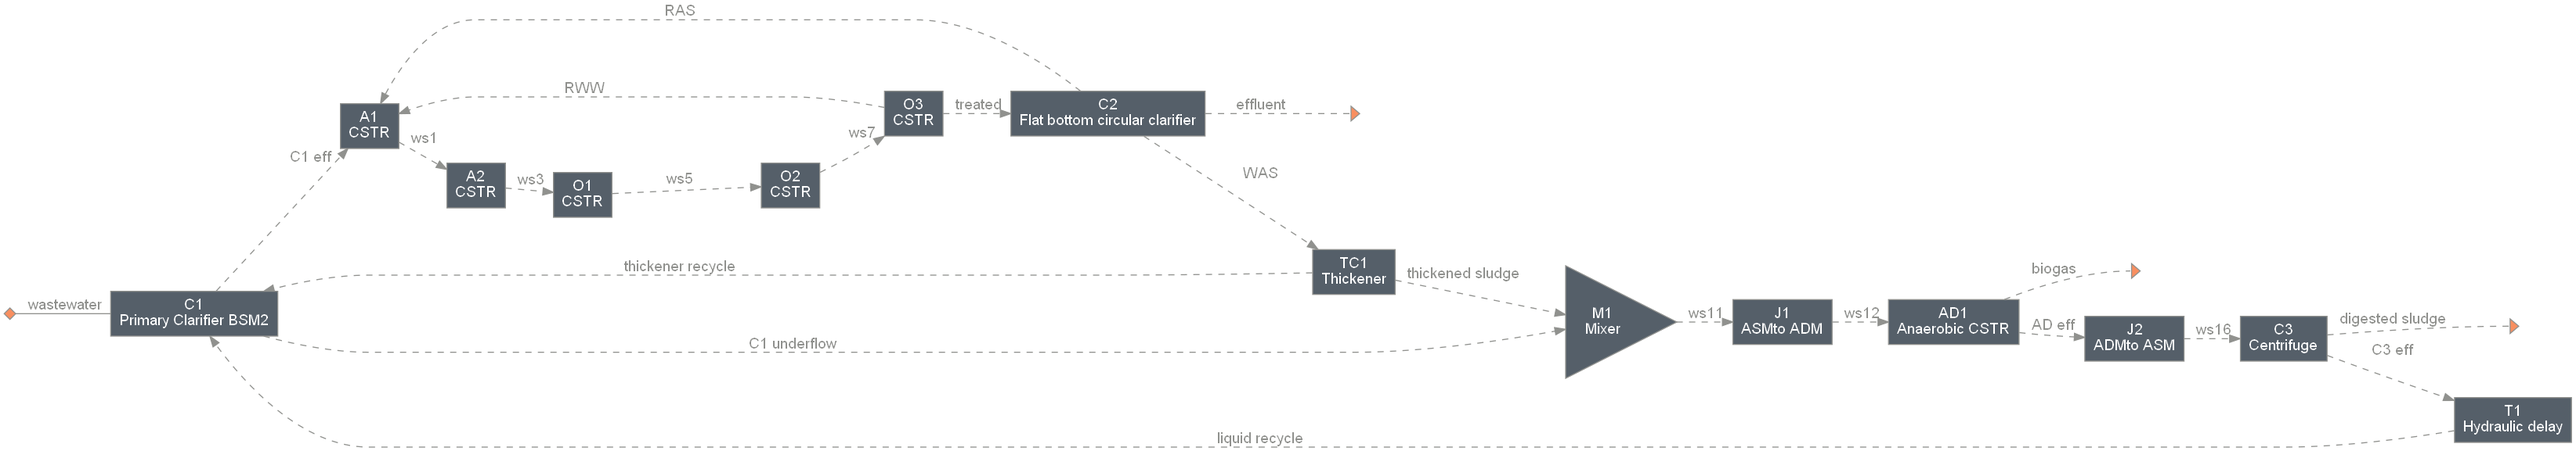
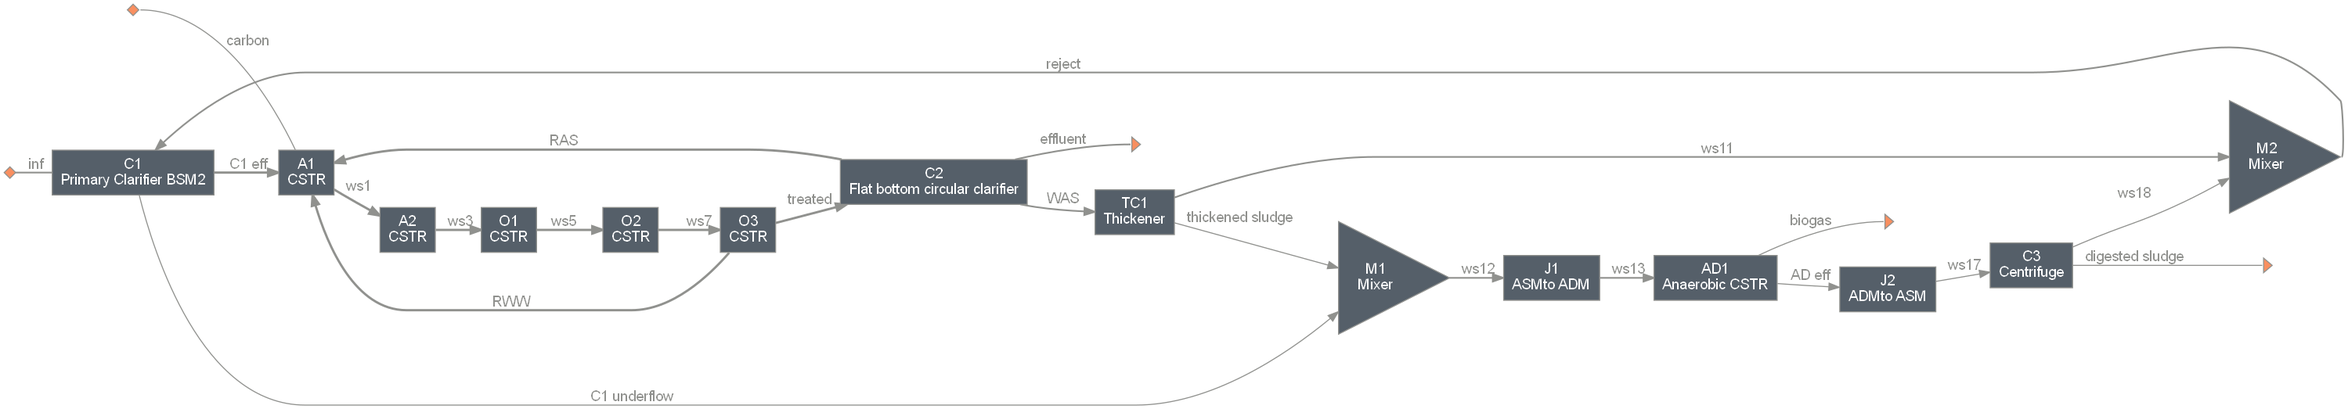
clean up bsm2 system

diff --git a/exposan/bsm2/system.py b/exposan/bsm2/system.py
@@ -69,8 +69,6 @@ def create_system(flowsheet=None, default_init_conds=True):
                    path=os.path.join(bsm1_path, '_asm1.tsv'))
     thermo_asm1 = qs.get_thermo()
     DO_ID = 'S_O'
-    #!!! Not sure where KLa are from
-    # the BSM STR Table 3.1 suggests kLa=120 for tanks 3&4, kLa=60 for tank 5
     aer1 = aer2 = pc.DiffusedAeration('aer1', DO_ID, KLa=120, DOsat=SOSAT1, V=V_ae)
     aer3 = pc.DiffusedAeration('aer3', DO_ID, KLa=60, DOsat=SOSAT1, V=V_ae)
     
@@ -83,9 +81,7 @@ def create_system(flowsheet=None, default_init_conds=True):
     # Primary clarifier using the Otterpohl-Freund model
     # Where are other parameters used?
     C1 = su.PrimaryClarifierBSM2(
-        'C1',
-        # ins=(inf, 'thickener_recycle', 'reject_water'),
-        ins=(inf, 'reject'),
+        'C1', ins=(inf, 'reject'),
         outs=('C1_eff', 'C1_underflow'),
         isdynamic=True, 
         volume=900,
@@ -95,7 +91,6 @@ def create_system(flowsheet=None, default_init_conds=True):
 
     # Unit operations in BSM1
     A1 = su.CSTR('A1', ins=[C1-0, 'RWW', 'RAS', carb], V_max=V_an,
-    # A1 = su.CSTR('A1', ins=[C1-0, 'RWW', 'RAS'], V_max=V_an,
                  aeration=None, suspended_growth_model=asm1)
     
     A2 = su.CSTR('A2', A1-0, V_max=V_an,
@@ -123,7 +118,6 @@ def create_system(flowsheet=None, default_init_conds=True):
         rh=5.76e-4, rp=2.86e-3, fns=2.28e-3,
         )
     
-    # TC1 = su.Thickener('TC1', C2-2, outs=['thickened_sludge', 1-C1],
     TC1 = su.Thickener('TC1', C2-2, outs=['thickened_sludge', ''],
                        thickening_perc=7, TSS_removal_perc=98)
     M1 = su.Mixer('M1', ins=(C1-1, TC1-0))
@@ -141,13 +135,13 @@ def create_system(flowsheet=None, default_init_conds=True):
     # J1.ins[0].pH = 7.2631
     AD1 = su.AnaerobicCSTR('AD1', ins=J1.outs[0], outs=('biogas', 'AD_eff'), isdynamic=True,
                            V_liq=3400, V_gas=300, T=T_ad, model=adm1,)
+    # AD1.algebraic_h2=False
     # Switch back to ASM1 components
     J2 = su.ADMtoASM('J2', upstream=AD1-1, thermo=thermo_asm1, isdynamic=True, adm1_model=adm1)
     J2.bio_to_xs = 0.79
     qs.set_thermo(thermo_asm1)
     
     # Dewatering
-    # C3 = su.Centrifuge(ID='C3', ins=J2-0, outs=['digested_sludge', 2-C1],
     C3 = su.Centrifuge(ID='C3', ins=J2-0, outs=['digested_sludge', ''],
                        thickening_perc=28, TSS_removal_perc=96.29)
 
@@ -166,11 +160,8 @@ def create_system(flowsheet=None, default_init_conds=True):
         AD1.set_init_conc(**adm1init['AD1'])
 
     
-    # sys = flowsheet.create_system('bsm2_sys')
     sys = qs.System('bsm2_sys', 
                     path=(C1, A1, A2, O1, O2, O3, C2, 
-                    #         TC1, M1, J1, AD1, J2, C3),
-                    # recycle=(O3-0, C2-1, TC1-1, C3-1, )
                           TC1, M1, J1, AD1, J2, C3, M2),
                     recycle=(O3-0, C2-1, M2-0)
                     )
@@ -214,7 +205,7 @@ if __name__ == '__main__':
     # cmps_adm1 = J1.components
     # cmps_asm1 = J2.components
     
-    t = 20
+    t = 30
     t_step = 1
     # method = 'RK45'
     method = 'RK23'
@@ -228,12 +219,3 @@ if __name__ == '__main__':
     # sys.converge()
     # sys.diagram()
     # sys.diagram(file=os.path.join(figures_path, 'bsm2_sys'), format='png')
-    
-    # sys.converge()
-    # for u in sys.units:
-    #     if not hasattr(u, '_state'): u._init_dynamic()
-    # y0, idx, nr = sys._load_state()
-    
-
-    # J1.state # post ASM2ADM interface
-    # J2.state # post ADM2ASM interface

diff --git a/exposan/bsm2/README.rst b/exposan/bsm2/README.rst
@@ -2,7 +2,6 @@
 bsm2: Benchmark Simulation Model No. 2
 ======================================
 
-NOT YET READY FOR USE
 
 Summary
 -------
@@ -24,15 +23,15 @@ Load the system
 	>>> from exposan import bsm2
 	>>> # bsm2.load()
 	>>> sys = bsm2.sys
-	>>> # sys.simulate(method='BDF', t_span=(0, 15)) # the default 'RK45' method can't solve it
+	>>> # sys.simulate(method='RK23', t_span=(0, 15))    # works for RK45, RK23, or DOP853
 	>>> # Check the states of any one or more components
 	>>> # fig, axis = bsm2.AD1.scope.plot_time_series(u.AD1.components.IDs[:3])
 	>>> # fig
 
 
-# .. figure:: ./readme_figures/bsm2_sys.png
+.. figure:: ./readme_figures/bsm2_sys.png
 
-    *Current module diagram (not ready for use).*
+    *Current module diagram.*
 
 
 References
